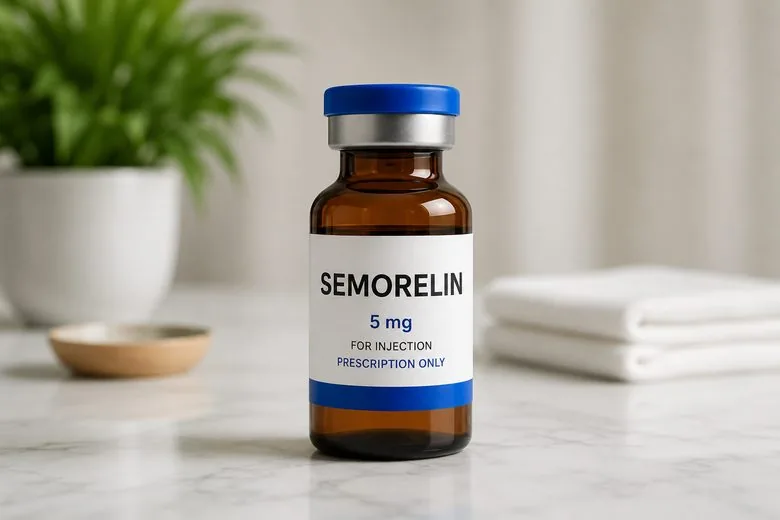
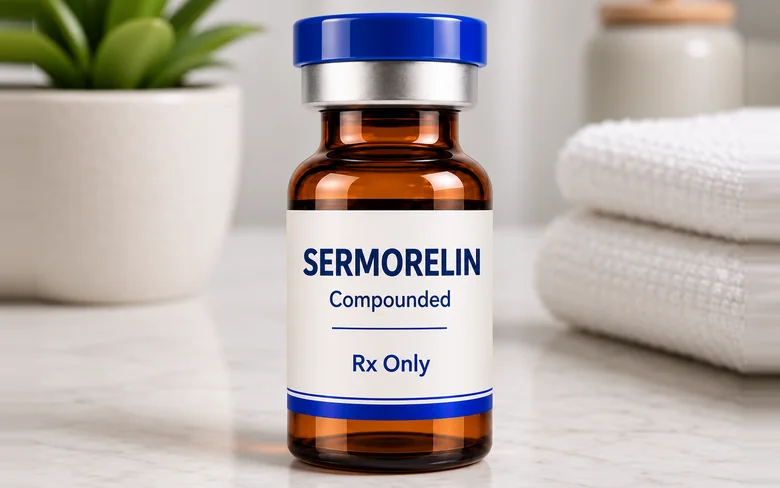
fix(home): replace the misspelled peptide blog card image
The Learning Center card for "What Are Peptides?" showed a vial labeled
"SEMORELIN". It now uses the Sermorelin Compounded Rx vial photo, fitted
to the card's 16:10 frame with the whole vial in view, and the alt text
names the visible label.

diff --git a/wellpeps-site/src/data/content.ts b/wellpeps-site/src/data/content.ts
@@ -43,7 +43,7 @@ export const safety = [
 /* ---- Section 8: Wellness Insights & Resources (blog) ---- */
 export const insights = [
   { title: 'Understanding GLP-1 Weight Management', body: 'Learn how GLP-1 medications work, who they’re for, and what results you can expect with a personalized plan.', image: '/images/insight-glp1.webp', alt: 'Woman running outdoors', href: '/wellness-learning-center/understanding-glp1-medications' },
-  { title: 'What Are Peptides? Understanding Peptide Therapy', body: 'What peptides are, how they function in the body, and how a provider evaluates whether peptide therapy may be appropriate.', image: '/images/insight-peptide.webp', alt: 'Peptide medication vial on a counter', href: '/wellness-learning-center/what-are-peptides' },
+  { title: 'What Are Peptides? Understanding Peptide Therapy', body: 'What peptides are, how they function in the body, and how a provider evaluates whether peptide therapy may be appropriate.', image: '/images/insight-peptide.webp', alt: 'An amber vial labeled Sermorelin, Compounded, Rx Only, on a marble counter', href: '/wellness-learning-center/what-are-peptides' },
   { title: 'Understanding Hair Loss Treatment Options', body: 'Explore proven solutions for thinning hair and hair loss, and how personalized treatment can help you see real results.', image: '/images/insight-hair.webp', alt: 'Man examining his hairline in a mirror', href: '/wellness-learning-center/understanding-hair-loss' },
 ];
 
